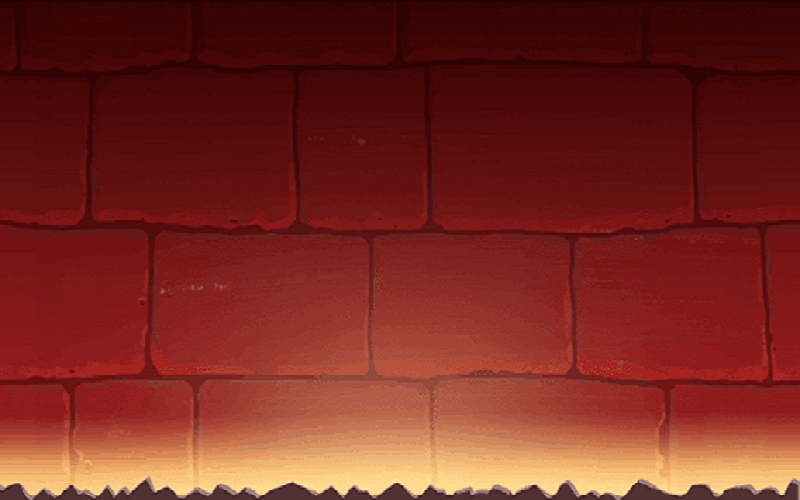
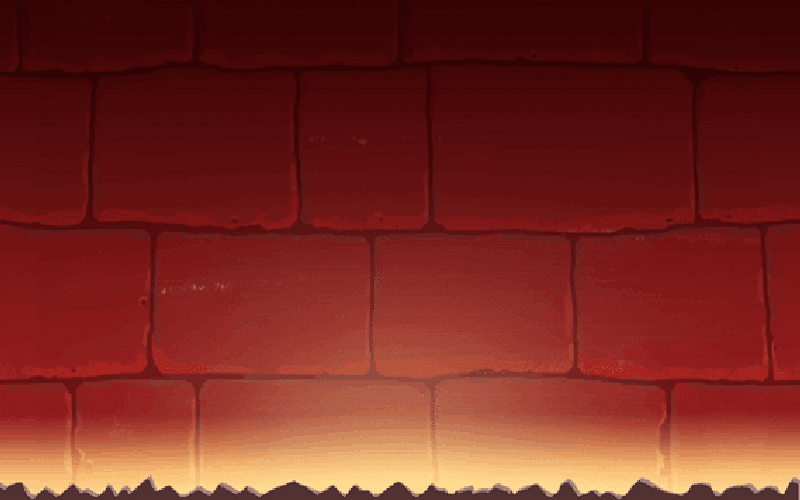
맵 추가 구현
프론트 배경 추가

diff --git a/cookierun/background.py b/cookierun/background.py
@@ -5,15 +5,18 @@ from pico2d import *
 class Background:
     def __init__(self):
         self.imageGround = load_image('resource/stage/First_ground.png')
-        self.imageBackground = load_image('resource/stage/First_Background.png')
+        self.imageFrontGround = load_image('resource/stage/First_Frontground.png')
+        self.imageBackGround = load_image('resource/stage/First_Background.png')
         self.Gx1 = 400
         self.Gx2 = 1200
+        self.Fx = 800
         self.Bx1 = 400
         self.Bx2 = 1200
 
     def draw(self):
-        self.imageBackground.clip_draw(0, 0, 800, 500, self.Gx1, 250, 800, 500)
-        self.imageBackground.clip_draw(0, 0, 800, 500, self.Gx2, 250, 800, 500)
+        self.imageBackGround.clip_draw(0, 0, 800, 500, self.Gx1, 250, 800, 500)
+        self.imageBackGround.clip_draw(0, 0, 800, 500, self.Gx2, 250, 800, 500)
+        self.imageFrontGround.clip_draw(0, 0, 1600, 500, self.Fx, 250, 1600, 500)
         self.imageGround.clip_draw(0, 0, 800, 500, self.Bx1, 250, 800, 500)
         self.imageGround.clip_draw(0, 0, 800, 500, self.Bx2, 250, 800, 500)
 
@@ -30,3 +33,6 @@ class Background:
         self.Bx2 -= 200 * game_framework.frame_time
         if self.Bx2 <= -400:
             self.Bx2 = 1200
+        self.Fx -= 100 * game_framework.frame_time
+        if self.Fx <= - 800:
+            self.Fx = 800
